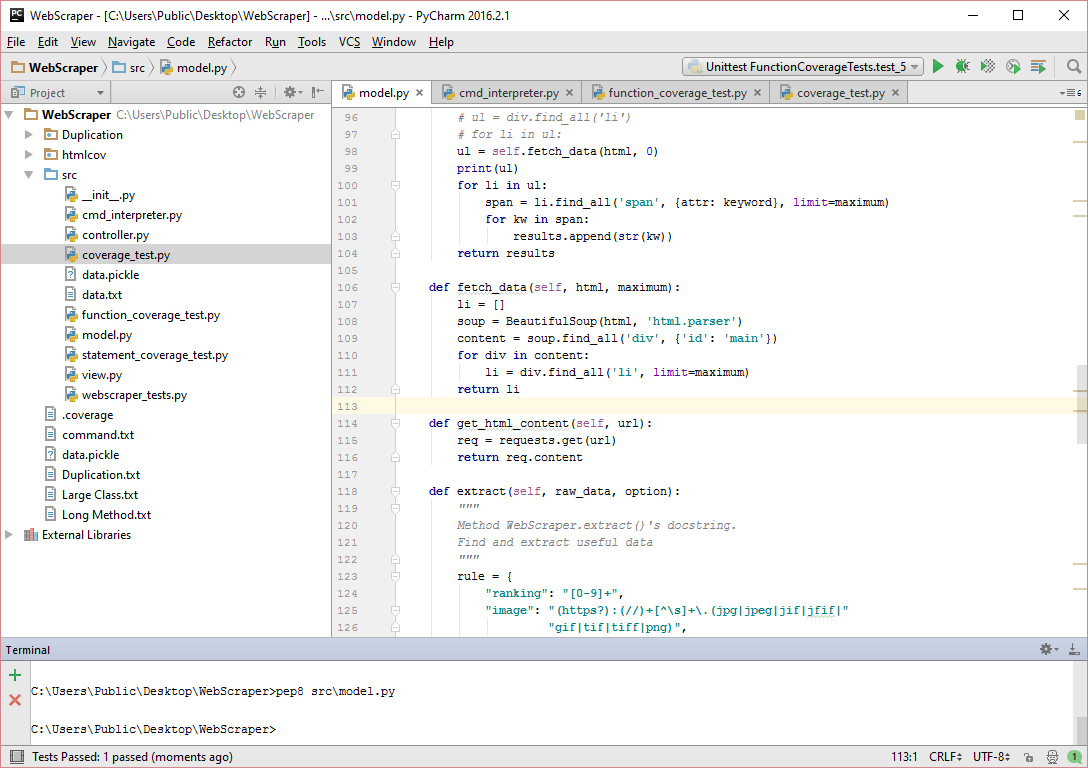
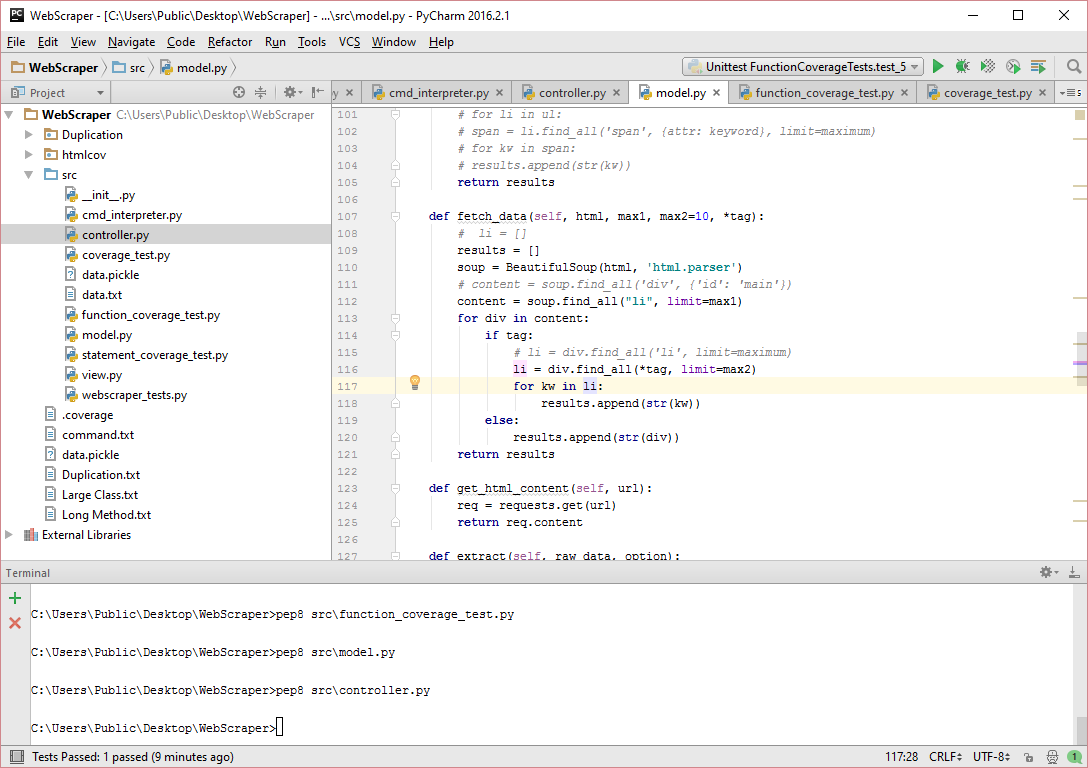
Add files via upload
Duplication
Step 6 - Renaming variable and parameter names
Pass variable to parameter of new method

diff --git a/src/model.py b/src/model.py
@@ -72,16 +72,17 @@ class WebScraper:
             html = self.get_html_content(url)
         finally:
             # soup = BeautifulSoup(html, 'html.parser')
-            results = []
+            # results = []
+            results = self.fetch_data(html, maximum)
         # content = soup.find_all('div', {'id': 'main'})
         # for div in content:
         # li = div.find_all('li', limit=maximum)
-            li = self.fetch_data(html, maximum)
-            for data in li:
-                results.append(str(data))
+        # li = self.fetch_data(html, maximum)
+        # for data in li:
+        # results.append(str(data))
         return results
 
-    def fetch_by_keyword(self, url, attr, keyword, maximum=10):
+    def fetch_by_keyword(self, url, tag, tag_class, css_class, maximum=10):
         """
         Method WebScraper.fetch()'s docstring.
         Get data by keyword lookup from Web page.
@@ -90,25 +91,34 @@ class WebScraper:
         # html = req.content
         html = self.get_html_content(url)
         # soup = BeautifulSoup(html, 'html.parser')
-        results = []
+        # results = []
         # content = soup.find_all('div', {'id': 'main'})
         # for div in content:
         # ul = div.find_all('li')
         # for li in ul:
-        ul = self.fetch_data(html, 0)
-        for li in ul:
-            span = li.find_all('span', {attr: keyword}, limit=maximum)
-            for kw in span:
-                results.append(str(kw))
+        # ul = self.fetch_data(html, 0)
+        results = self.fetch_data(html, 0, maximum, tag, {tag_class: css_class})
+        # for li in ul:
+        # span = li.find_all('span', {attr: keyword}, limit=maximum)
+        # for kw in span:
+        # results.append(str(kw))
         return results
 
-    def fetch_data(self, html, maximum):
-        li = []
+    def fetch_data(self, html, max1, max2=10, *tag):
+        #  li = []
+        results = []
         soup = BeautifulSoup(html, 'html.parser')
-        content = soup.find_all('div', {'id': 'main'})
+        # content = soup.find_all('div', {'id': 'main'})
+        content = soup.find_all("li", limit=max1)
         for div in content:
-            li = div.find_all('li', limit=maximum)
-        return li
+            if tag:
+                # li = div.find_all('li', limit=maximum)
+                li = div.find_all(*tag, limit=max2)
+                for kw in li:
+                    results.append(str(kw))
+            else:
+                results.append(str(div))
+        return results
 
     def get_html_content(self, url):
         req = requests.get(url)

diff --git a/src/controller.py b/src/controller.py
@@ -59,7 +59,8 @@ class WebScrapingController(Controller):
             self._container['image'] = self._model.extract(self._data, "image")
             self._links = self._model.extract(self._data, "link")
             for link in self._links:
-                self._data = self._model.fetch_by_keyword(link, "class",
+                self._data = self._model.fetch_by_keyword(link,
+                                                          "span", "class",
                                                           "price")
                 self._container['price'].append(self._model.extract(self._data,
                                                                     "price"))

diff --git a/src/function_coverage_test.py b/src/function_coverage_test.py
@@ -30,7 +30,7 @@ class FunctionCoverageTests(unittest.TestCase):
                          ('https://itunes.apple.com/nz/'
                           'album/poi-e/id256565680?'
                           'i=256566239&v0='
-                          'WWW-NZ-ITSTOP100-SONGS&l=en&ign-mpt=uo%3D4',
+                          'WWW-NZ-ITSTOP100-SONGS&l=en&ign-mpt=uo%3D4', "span",
                           "class", "price", 1))
 
     def test_6(self):
